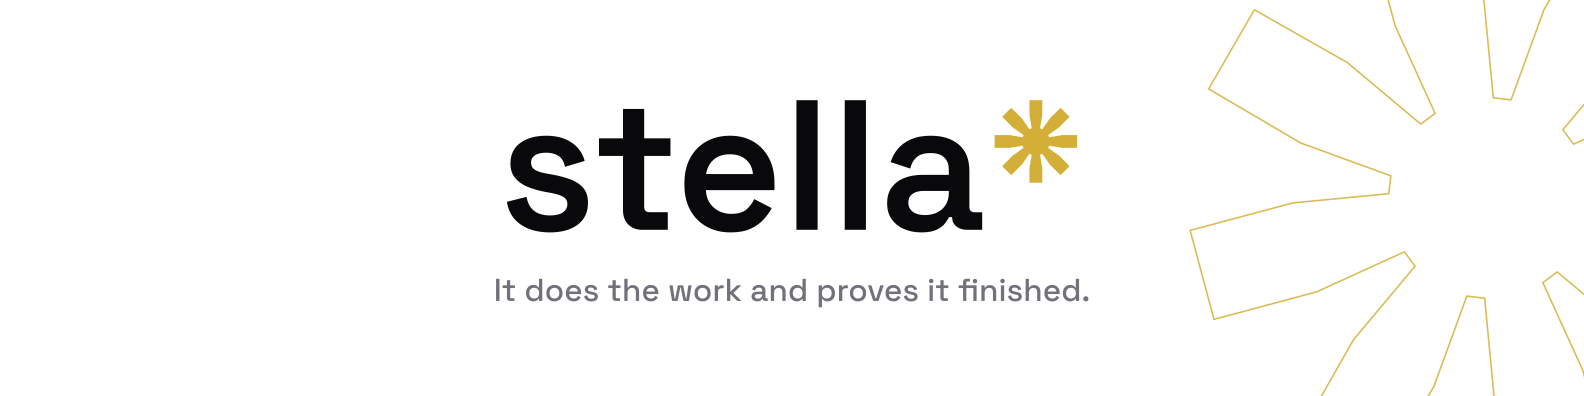
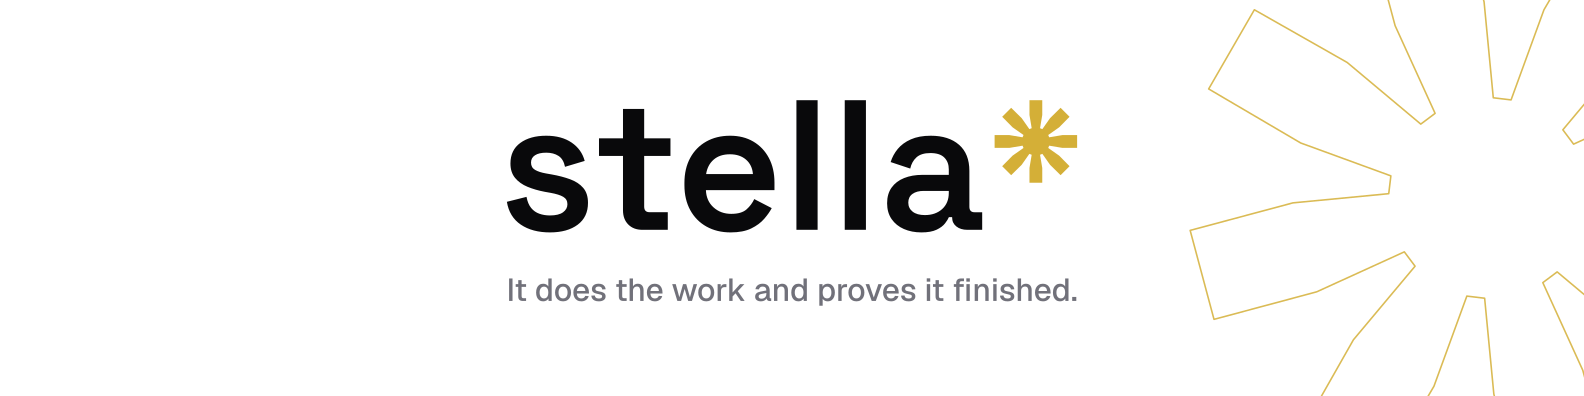
fix(docs): find the deploy node by its tag, and sync the brand to kit 2.5.0
Every stella.oxagen.sh deploy since 2026-09-08 sent its restart to
i-094fcb34c7e715cf8, which no longer exists. The node was rebuilt and now
carries a new id. The live gha-deploy-stella policy allows the restart on any
instance tagged Name=oxagen-app and allows ec2:DescribeInstances, as
infra/stacks-new/ci-deploy/roles.tf declares. The job now looks up the one
running instance with that tag, the way the platform's own deploys find it,
and fails by name if it finds none or more than one.

The brand sync brings in kit 2.5.0 (macanderson/oxagen-brand@5966ded): text
stops for each state, Geist on every heading, and the redrawn social art. The
site's own theme points --font-display at Geist and adds --font-wordmark for
Space Grotesk. The drift check and the docs name the kit
macanderson/oxagen-brand again, since it moved back from oxageninc/brand.

Refs #6478

Changed region(s): [[0.3093, 0.697, 0.6806, 0.7576]]

diff --git a/docs/brand/css/house-tokens.css b/docs/brand/css/house-tokens.css
@@ -11,10 +11,13 @@
  * State is carried by border shape. The st-* colours are for the badge or
  * dot inside a table where shape is too small to read, never the only
  * signal. destructive is the failed red lifted until it clears AA on ink.
+ * A word in a state's colour takes its text stop, st-*-text on ink and
+ * st-*-text-ink on paper, which clears 4.5:1 on every surface of its theme.
  *
- * Space Grotesk sets the wordmarks and h1 to h3. Geist sets h4 to h6 and
- * everything read. Monaspace Neon sets code, logs, digests, and the numbers
- * in tables. tokens/house-fonts.css carries the @font-face rules.
+ * Geist sets every heading and everything read. Monaspace Neon sets code,
+ * logs, digests, and the numbers in tables. Space Grotesk sets the
+ * wordmarks and line 1 of a marketing hero, and no other heading.
+ * tokens/house-fonts.css carries the @font-face rules.
  */
 
 :root {
@@ -40,6 +43,7 @@
   --ox-text-ink: #09090B; /* primary text on paper */
   --ox-text-ink-body: #27272A; /* body text on paper */
   --ox-muted-ink: #71717A; /* secondary text on paper */
+  --ox-muted-text-ink: #6E6E77; /* secondary text on paper and on a lifted row there */
   --ox-dim-ink: #A1A1AA; /* the quietest text on paper */
 
   --ox-st-allowed: #57A97C; /* a request a rule allowed, on ink */
@@ -57,10 +61,25 @@
   --ox-destructive: #D5584D; /* a destructive action, on ink: text and fill */
   --ox-destructive-ink: #992F28; /* the same, on paper */
 
+  --ox-st-allowed-text: #57A97C; /* allowed as words, on ink, panel, and hl */
+  --ox-st-allowed-text-ink: #2F7D52; /* allowed as words, on paper and paper-hl */
+  --ox-st-approval-text: #6098DB; /* approval as words, on ink, panel, and hl */
+  --ox-st-approval-text-ink: #2E6BA8; /* approval as words, on paper and paper-hl */
+  --ox-st-denied-text: #D67858; /* denied as words, on ink, panel, and hl */
+  --ox-st-denied-text-ink: #9B4526; /* denied as words, on paper and paper-hl */
+  --ox-st-proven-text: #44A7A7; /* proven as words, on ink, panel, and hl */
+  --ox-st-proven-text-ink: #1F7676; /* proven as words, on paper and paper-hl */
+  --ox-st-failed-text: #E7685C; /* failed as words, on ink, panel, and hl */
+  --ox-st-failed-text-ink: #992F28; /* failed as words, on paper and paper-hl */
+  --ox-st-critical-text: #EF5C72; /* critical as words, on ink, panel, and hl */
+  --ox-st-critical-text-ink: #AE2540; /* critical as words, on paper and paper-hl */
+  --ox-destructive-text: #E7685C; /* destructive as words, on ink, panel, and hl */
+  --ox-destructive-text-ink: #992F28; /* destructive as words, on paper and paper-hl */
+
   --ox-gold-sheen: linear-gradient(45deg, #8A7223 0%, #D4AF37 38%, #F1CE65 56%, #D4AF37 74%, #8A7223 100%);
 
-  --ox-font-display: "Space Grotesk", "Helvetica Neue", Arial, sans-serif; /* wordmarks, h1, h2, h3 */
-  --ox-font: "Geist", system-ui, -apple-system, "Segoe UI", sans-serif; /* h4 to h6, body, labels, buttons, tables, navigation */
+  --ox-font-display: "Space Grotesk", "Helvetica Neue", Arial, sans-serif; /* the wordmarks, Stella's icon, and line 1 of a marketing hero */
+  --ox-font: "Geist", system-ui, -apple-system, "Segoe UI", sans-serif; /* every heading, body, labels, buttons, tables, navigation */
   --ox-font-mono: "Monaspace Neon", ui-monospace, "SF Mono", Menlo, Consolas, monospace; /* code, terminal output, logs, digests, paths, ids, and numbers in tables */
   --ox-font-mono-features: "calt", "liga"; /* texture healing and code ligatures */
 

diff --git a/website/src/brand/house-tokens.css b/website/src/brand/house-tokens.css
@@ -11,10 +11,13 @@
  * State is carried by border shape. The st-* colours are for the badge or
  * dot inside a table where shape is too small to read, never the only
  * signal. destructive is the failed red lifted until it clears AA on ink.
+ * A word in a state's colour takes its text stop, st-*-text on ink and
+ * st-*-text-ink on paper, which clears 4.5:1 on every surface of its theme.
  *
- * Space Grotesk sets the wordmarks and h1 to h3. Geist sets h4 to h6 and
- * everything read. Monaspace Neon sets code, logs, digests, and the numbers
- * in tables. tokens/house-fonts.css carries the @font-face rules.
+ * Geist sets every heading and everything read. Monaspace Neon sets code,
+ * logs, digests, and the numbers in tables. Space Grotesk sets the
+ * wordmarks and line 1 of a marketing hero, and no other heading.
+ * tokens/house-fonts.css carries the @font-face rules.
  */
 
 :root {
@@ -40,6 +43,7 @@
   --ox-text-ink: #09090B; /* primary text on paper */
   --ox-text-ink-body: #27272A; /* body text on paper */
   --ox-muted-ink: #71717A; /* secondary text on paper */
+  --ox-muted-text-ink: #6E6E77; /* secondary text on paper and on a lifted row there */
   --ox-dim-ink: #A1A1AA; /* the quietest text on paper */
 
   --ox-st-allowed: #57A97C; /* a request a rule allowed, on ink */
@@ -57,10 +61,25 @@
   --ox-destructive: #D5584D; /* a destructive action, on ink: text and fill */
   --ox-destructive-ink: #992F28; /* the same, on paper */
 
+  --ox-st-allowed-text: #57A97C; /* allowed as words, on ink, panel, and hl */
+  --ox-st-allowed-text-ink: #2F7D52; /* allowed as words, on paper and paper-hl */
+  --ox-st-approval-text: #6098DB; /* approval as words, on ink, panel, and hl */
+  --ox-st-approval-text-ink: #2E6BA8; /* approval as words, on paper and paper-hl */
+  --ox-st-denied-text: #D67858; /* denied as words, on ink, panel, and hl */
+  --ox-st-denied-text-ink: #9B4526; /* denied as words, on paper and paper-hl */
+  --ox-st-proven-text: #44A7A7; /* proven as words, on ink, panel, and hl */
+  --ox-st-proven-text-ink: #1F7676; /* proven as words, on paper and paper-hl */
+  --ox-st-failed-text: #E7685C; /* failed as words, on ink, panel, and hl */
+  --ox-st-failed-text-ink: #992F28; /* failed as words, on paper and paper-hl */
+  --ox-st-critical-text: #EF5C72; /* critical as words, on ink, panel, and hl */
+  --ox-st-critical-text-ink: #AE2540; /* critical as words, on paper and paper-hl */
+  --ox-destructive-text: #E7685C; /* destructive as words, on ink, panel, and hl */
+  --ox-destructive-text-ink: #992F28; /* destructive as words, on paper and paper-hl */
+
   --ox-gold-sheen: linear-gradient(45deg, #8A7223 0%, #D4AF37 38%, #F1CE65 56%, #D4AF37 74%, #8A7223 100%);
 
-  --ox-font-display: "Space Grotesk", "Helvetica Neue", Arial, sans-serif; /* wordmarks, h1, h2, h3 */
-  --ox-font: "Geist", system-ui, -apple-system, "Segoe UI", sans-serif; /* h4 to h6, body, labels, buttons, tables, navigation */
+  --ox-font-display: "Space Grotesk", "Helvetica Neue", Arial, sans-serif; /* the wordmarks, Stella's icon, and line 1 of a marketing hero */
+  --ox-font: "Geist", system-ui, -apple-system, "Segoe UI", sans-serif; /* every heading, body, labels, buttons, tables, navigation */
   --ox-font-mono: "Monaspace Neon", ui-monospace, "SF Mono", Menlo, Consolas, monospace; /* code, terminal output, logs, digests, paths, ids, and numbers in tables */
   --ox-font-mono-features: "calt", "liga"; /* texture healing and code ligatures */
 

diff --git a/website/src/app/global.css b/website/src/app/global.css
@@ -2,7 +2,7 @@
  * stella docs — the semantic layer.
  *
  * Brand system: the marks, the faces, and every house colour come from the
- * Oxagen house kit (oxageninc/brand), copied in by
+ * Oxagen house kit (macanderson/oxagen-brand), copied in by
  * scripts/sync-brand-assets.mjs. tokens.css carries the palette, and
  * src/brand/house-tokens.css is the kit's own token sheet, which this file
  * reads for the font stacks.
@@ -34,11 +34,14 @@
 /* Let Tailwind see Fumadocs' compiled utility classes. */
 @source "../../node_modules/fumadocs-ui/dist/**/*.js";
 
-/* Three faces, loaded by src/brand/next-fonts.ts. Space Grotesk sets h1 to
- * h3, Geist everything read, Monaspace Neon code and terminal transcripts.
- * Each fallback stack is the kit's, from src/brand/house-tokens.css. */
+/* Three faces, loaded by src/brand/next-fonts.ts. Geist sets every heading and
+ * everything read, Monaspace Neon sets code and terminal transcripts, and Space
+ * Grotesk sets only a wordmark typed as text (--font-wordmark), per the house
+ * rule of 2026-09-29. Each fallback stack is the kit's, from
+ * src/brand/house-tokens.css. */
 @theme {
-  --font-display: var(--font-space-grotesk), var(--ox-font-display);
+  --font-display: var(--font-geist), var(--ox-font);
+  --font-wordmark: var(--font-space-grotesk), var(--ox-font-display);
   --font-sans: var(--font-geist), var(--ox-font);
   --font-mono: var(--font-monaspace-neon), var(--ox-font-mono);
 
@@ -193,12 +196,8 @@ figure.shiki ::selection,
   line-height: 1.65;
 }
 
-.prose :is(h1, h2, h3) {
+.prose :is(h1, h2, h3, h4, h5, h6) {
   font-family: var(--font-display);
-}
-
-.prose :is(h4, h5, h6) {
-  font-family: var(--font-sans);
 }
 
 .prose :is(h1, h2, h3, h4, h5, h6) {

diff --git a/website/src/brand/next-fonts.ts b/website/src/brand/next-fonts.ts
@@ -7,12 +7,13 @@
 //   import { fontVariables } from "@/styles/next-fonts";
 //   <html lang="en" className={fontVariables}>
 //
-// Each loader sets one CSS variable on <html>; tokens/house-tailwind.css
-// reads them into --font-display, --font-sans and --font-mono.
+// Each loader sets one CSS variable on <html>. tokens/house-tailwind.css
+// reads Geist into --font-sans and --font-display, Monaspace Neon into
+// --font-mono, and Space Grotesk into --font-wordmark and a marketing hero.
 
 import localFont from "next/font/local";
 
-/** Space Grotesk: wordmarks, h1, h2, h3. */
+/** Space Grotesk: the wordmarks, Stella's icon, and line 1 of a marketing hero. */
 export const spaceGrotesk = localFont({
   src: [
     { path: "../fonts/space-grotesk-latin-400.woff2", weight: "400", style: "normal" },
@@ -25,7 +26,7 @@ export const spaceGrotesk = localFont({
   fallback: ["Helvetica Neue", "Arial"],
 });
 
-/** Geist: h4 to h6, body, labels, buttons, tables, navigation. */
+/** Geist: every heading, body, labels, buttons, tables, navigation. */
 export const geist = localFont({
   src: "../fonts/geist-latin-wght.woff2",
   weight: "100 900",

diff --git a/website/src/app/tokens.css b/website/src/app/tokens.css
@@ -7,7 +7,7 @@
  * the gate on any hex here that is not a live token — so "this file mirrors the
  * system" is a checked property rather than a promise in a comment.
  *
- * The Oxagen house kit (oxageninc/brand) owns the value of most of
+ * The Oxagen house kit (macanderson/oxagen-brand) owns the value of most of
  * these tokens: the grounds, the greys, the text stops, and the golds.
  * scripts/sync-brand-assets.mjs writes the kit's value into each one here, in
  * the token JSON, and in docs/brand/css/tokens.css, so a kit colour change

diff --git a/website/src/components/brand.tsx b/website/src/components/brand.tsx
@@ -3,7 +3,7 @@
  *
  * Geometry comes from `./brand-marks.generated.ts`, extracted by
  * `scripts/sync-brand-assets.mjs` from the house kit
- * (oxageninc/brand). Nothing here is drawn: the wordmark is
+ * (macanderson/oxagen-brand). Nothing here is drawn: the wordmark is
  * Space Grotesk's own outlines at the kit's logo weight, which is the face this
  * site is set in, so the name in the nav and the name in a sentence are the same
  * design. To change a mark, change the kit and re-run the sync.

diff --git a/website/src/components/brand-marks.generated.ts b/website/src/components/brand-marks.generated.ts
@@ -41,6 +41,7 @@ export const HOUSE_COLORS = {
   "text-ink": "#09090B",
   "text-ink-body": "#27272A",
   "muted-ink": "#71717A",
+  "muted-text-ink": "#6E6E77",
   "dim-ink": "#A1A1AA",
 } as const;
 

diff --git a/README.md b/README.md
@@ -53,7 +53,7 @@ are two products from one company, and neither duplicates the other:
   engine over a wire protocol and holds no key and runs no tool itself, so
   every completion and tool call comes back to Oxagen's gates.
 
-Both products share the [Oxagen house brand system](https://github.com/oxageninc/brand):
+Both products share the [Oxagen house brand system](https://github.com/macanderson/oxagen-brand):
 one typeface, one gold, and one glyph in that gold per wordmark. Stella's mark
 is the asterisk in `stella*`, and nothing is ever set to its left.
 

diff --git a/docs/brand/README.md b/docs/brand/README.md
@@ -7,7 +7,7 @@ status: living
 # docs/brand — the house kit, mirrored
 
 **This directory is a copy. The source is
-[oxageninc/brand](https://github.com/oxageninc/brand),
+[macanderson/oxagen-brand](https://github.com/macanderson/oxagen-brand),
 and nothing here is edited by hand.**
 
 ```sh
